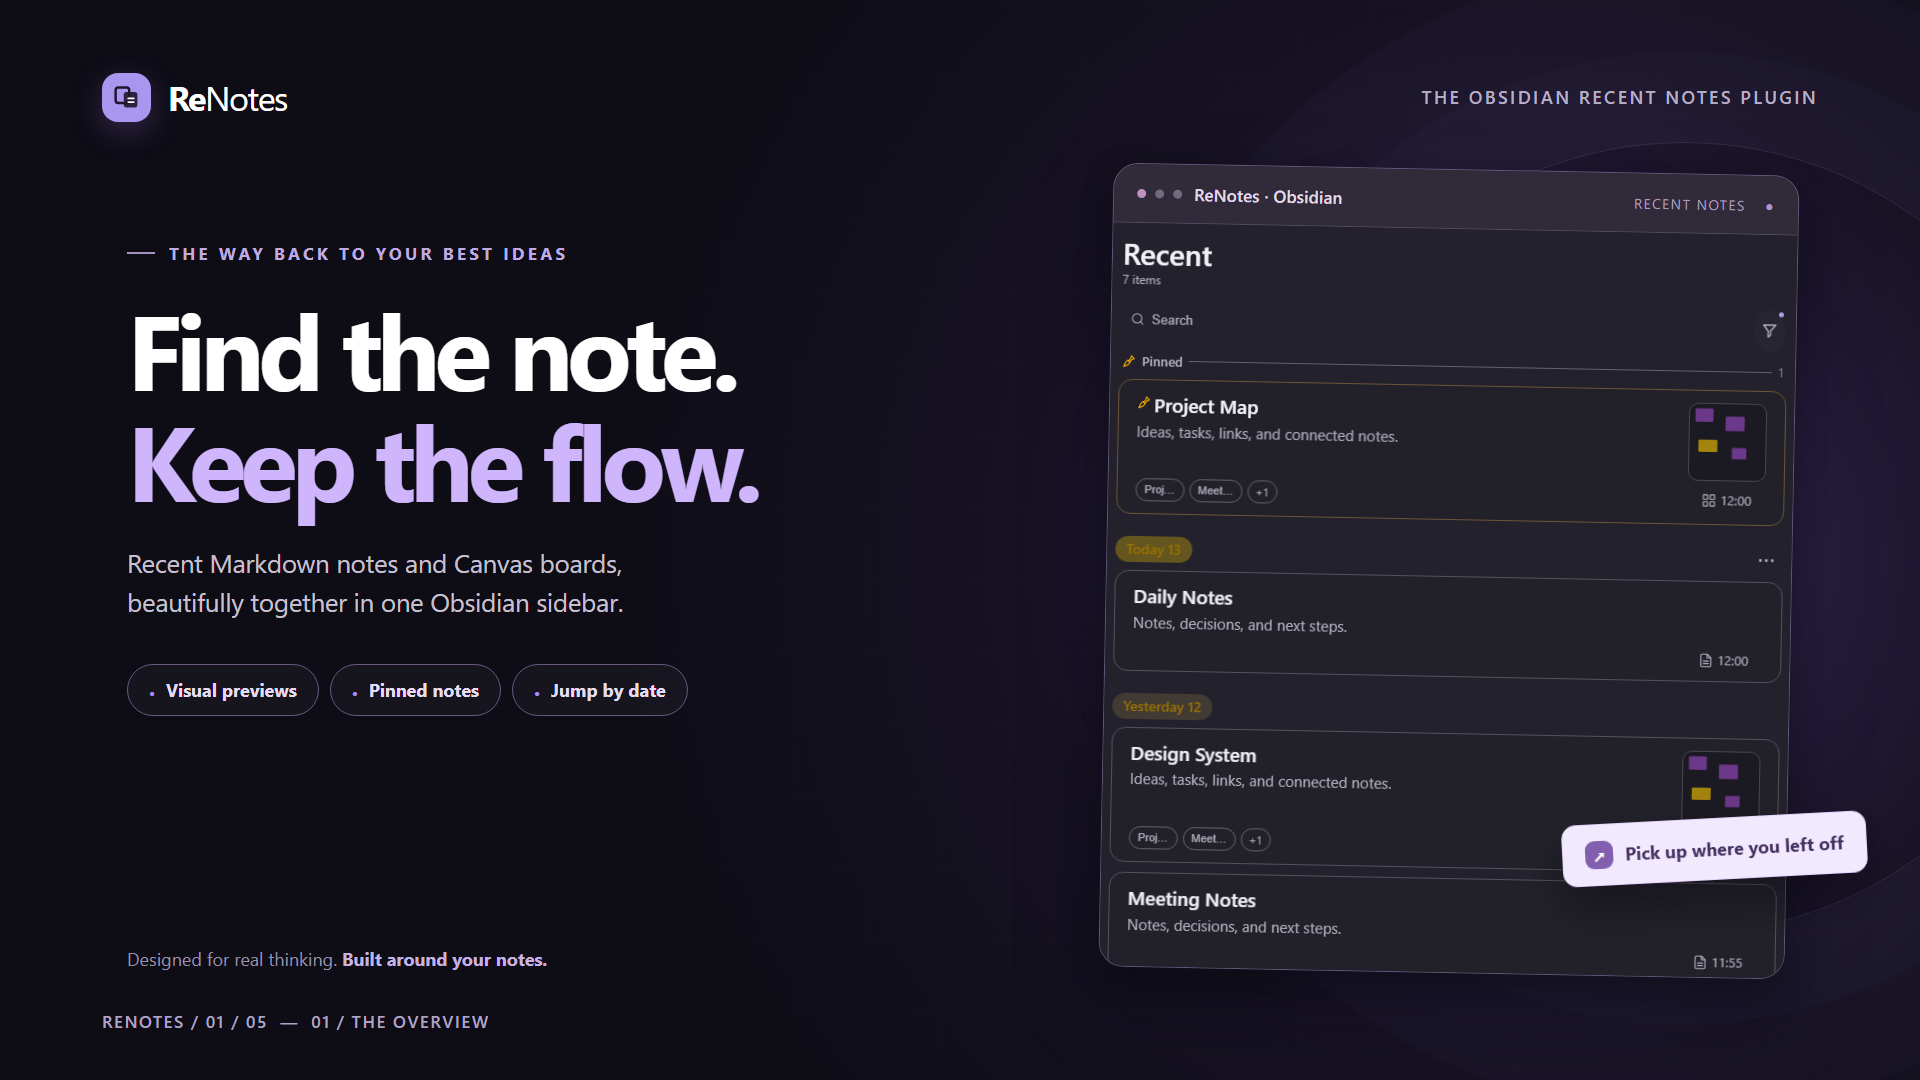
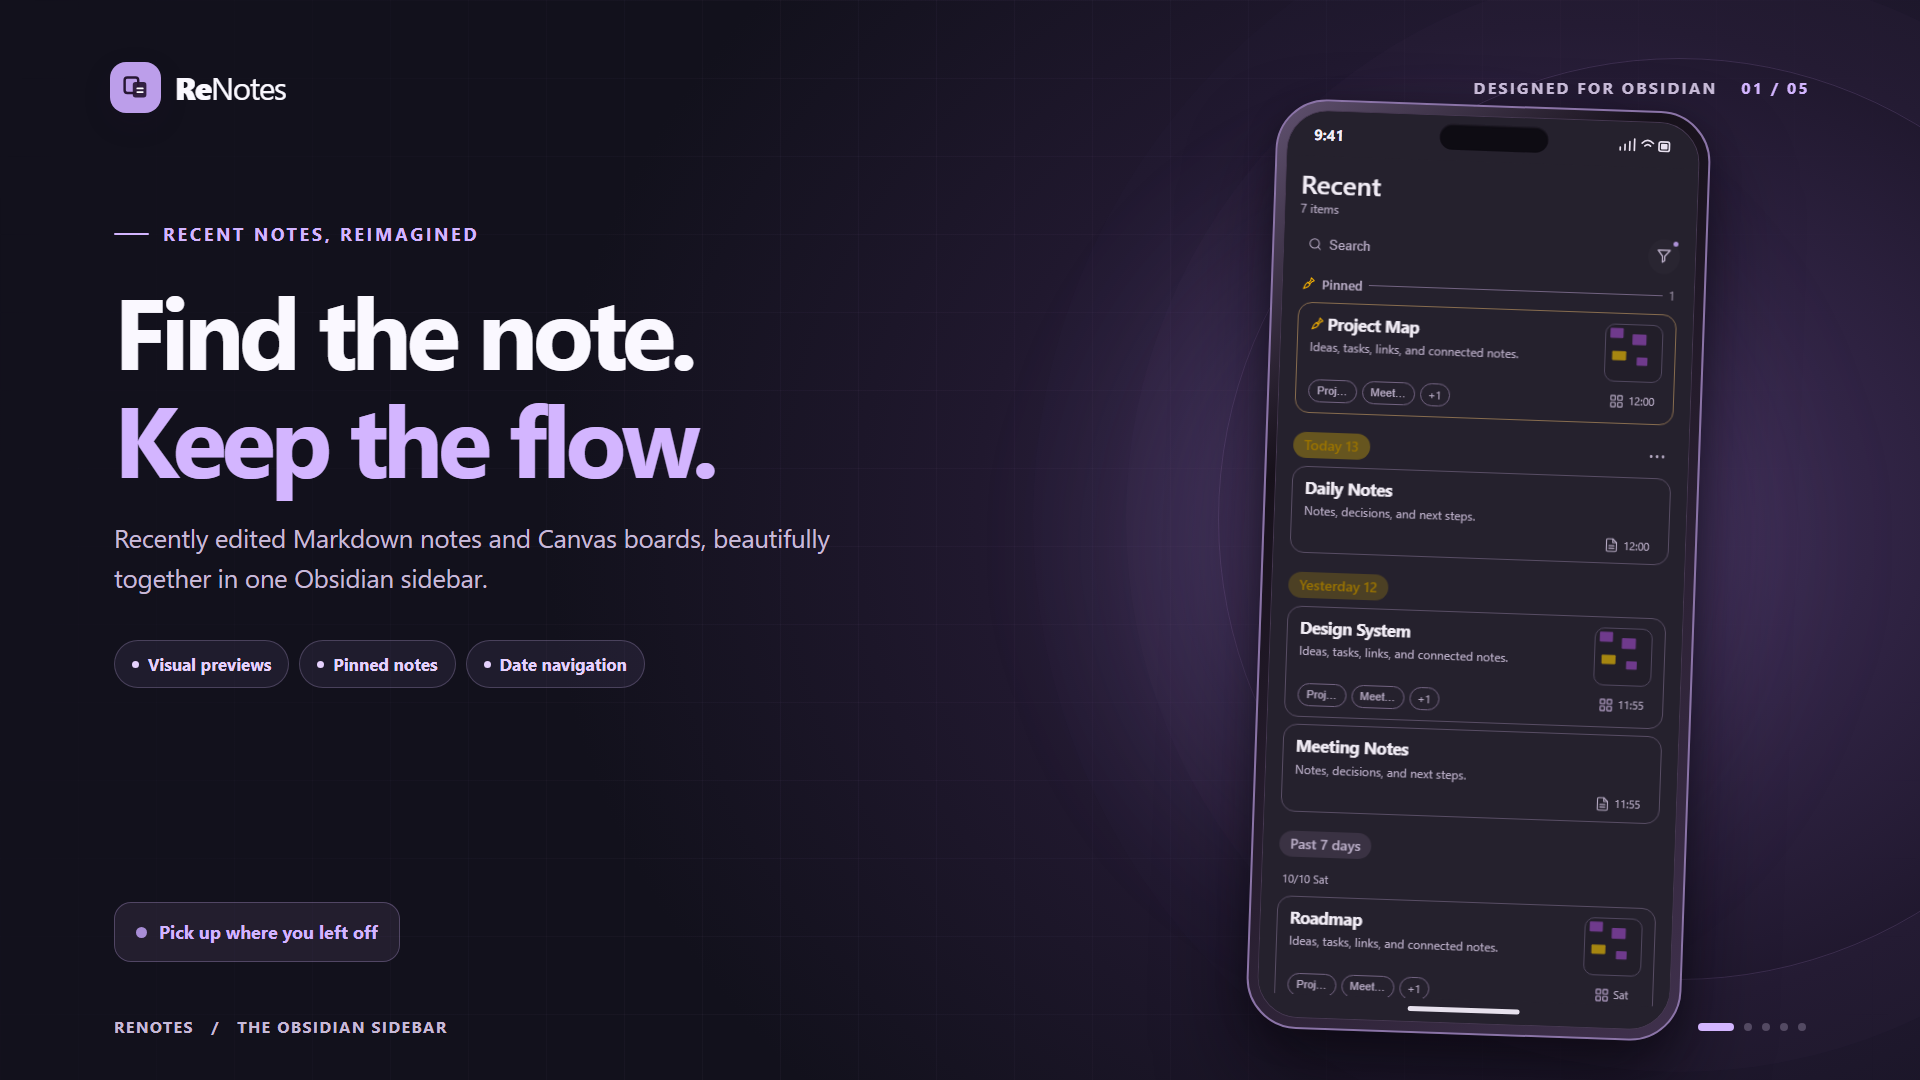
Redesign English marketing graphics around mobile ReNotes interface

diff --git a/README.md b/README.md
@@ -6,9 +6,9 @@ ReNotes is a visual **Obsidian recent notes plugin** that brings Markdown notes 
 
 [**Install from Obsidian**](https://community.obsidian.md/plugins/recent-notes-feed) · [GitHub Releases](https://github.com/ebmshll/ReNotes/releases/latest) · [Features](#feature-showcase) · [Installation](#installation) · [FAQ](#frequently-asked-questions) · [繁體中文](#繁體中文)
 
-![ReNotes recent Markdown notes and Canvas boards in a visual Obsidian sidebar](docs/images/marketing/01-renotes-hero-en.png)
+![ReNotes mobile-first English interface showing Markdown and Canvas notes on a phone](docs/images/marketing/01-renotes-hero-en.png)
 
-*Find the note. Keep the flow. — Code-rendered ReNotes interface with illustrative sample notes.*
+*Mobile-first ReNotes interface showcase, rendered from plugin UI components with illustrative notes.*
 
 ## English — Obsidian Recent Notes & Canvas Sidebar
 
@@ -33,34 +33,34 @@ It is a useful companion for **daily notes, Bullet Journaling, project notes, kn
 
 ### 01 — Recent notes, one focused sidebar
 
-![ReNotes recent-notes sidebar for Obsidian with Markdown and Canvas cards, pinned previews and search](docs/images/marketing/02-renotes-overview-en.png)
+![ReNotes mobile sidebar showing recent Markdown and Canvas notes, card previews and pinned items](docs/images/marketing/02-renotes-overview-en.png)
 
 *ONE SIDEBAR. EVERY RECENT IDEA. — Visual previews, pinned notes and quick search.*
 
 ### 02 — Jump directly to a date
 
-![ReNotes date navigation popover with seven recent active days, daily counts and monthly browsing](docs/images/marketing/03-renotes-date-navigation-en.png)
+![ReNotes mobile date navigator showing up to seven recent active days and older dates by month](docs/images/marketing/03-renotes-date-navigation-en.png)
 
 *YOUR NOTES. ANY DAY. — Jump to the selected day without filtering the list.*
 
 ### 03 — Follow Canvas connections
 
-![ReNotes linked Markdown and Canvas documents with rounded outline chips and thumbnail-aligned times](docs/images/marketing/04-renotes-canvas-links-en.png)
+![ReNotes mobile interface displaying linked Markdown and Canvas document chips below Canvas cards](docs/images/marketing/04-renotes-canvas-links-en.png)
 
 *FOLLOW THE CONNECTIONS. — Compact links to Markdown notes and Canvas boards.*
 
 ### 04 — English and Traditional Chinese
 
-![English and Traditional Chinese sidebar interface options for the ReNotes Obsidian plugin](docs/images/marketing/05-renotes-languages-en.png)
+![ReNotes English and Traditional Chinese mobile sidebar interfaces displayed on two phones](docs/images/marketing/05-renotes-languages-en.png)
 
 *YOUR WORKFLOW. YOUR LANGUAGE. — Choose English, Traditional Chinese or automatic selection.*
 
 
-## Illustrated interface previews
+## Mobile interface previews
 
-Explore the new full-resolution marketing visuals: [hero](docs/images/marketing/01-renotes-hero-en.png), [recent notes](docs/images/marketing/02-renotes-overview-en.png), [date navigation](docs/images/marketing/03-renotes-date-navigation-en.png), [Canvas links](docs/images/marketing/04-renotes-canvas-links-en.png), and [bilingual interface](docs/images/marketing/05-renotes-languages-en.png). A [1280 × 640 social preview](docs/images/marketing/renotes-social-preview-en.png) is also available.
+Explore the redesigned English-first mobile-layout visuals (rendered at full desktop-banner resolution): [hero](docs/images/marketing/01-renotes-hero-en.png), [recent notes](docs/images/marketing/02-renotes-overview-en.png), [date navigation](docs/images/marketing/03-renotes-date-navigation-en.png), [Canvas links](docs/images/marketing/04-renotes-canvas-links-en.png), and [bilingual interface](docs/images/marketing/05-renotes-languages-en.png). A [1280 × 640 social preview](docs/images/marketing/renotes-social-preview-en.png) is also available.
 
-*All visuals use ReNotes interface components and illustrative sample content, rendered with HTML, CSS and SVG.*
+*The phone displays are illustrative mobile UI renderings using ReNotes components and sample notes, created with HTML, CSS and SVG (not AI-generated screenshots).*
 
 **Release 1.2.3:** Improves CSS compatibility with Obsidian 1.4.5, removes an unnecessary `!important`, and introduces signed artifact provenance via GitHub Actions. User-facing features and note data remain unchanged.
 
